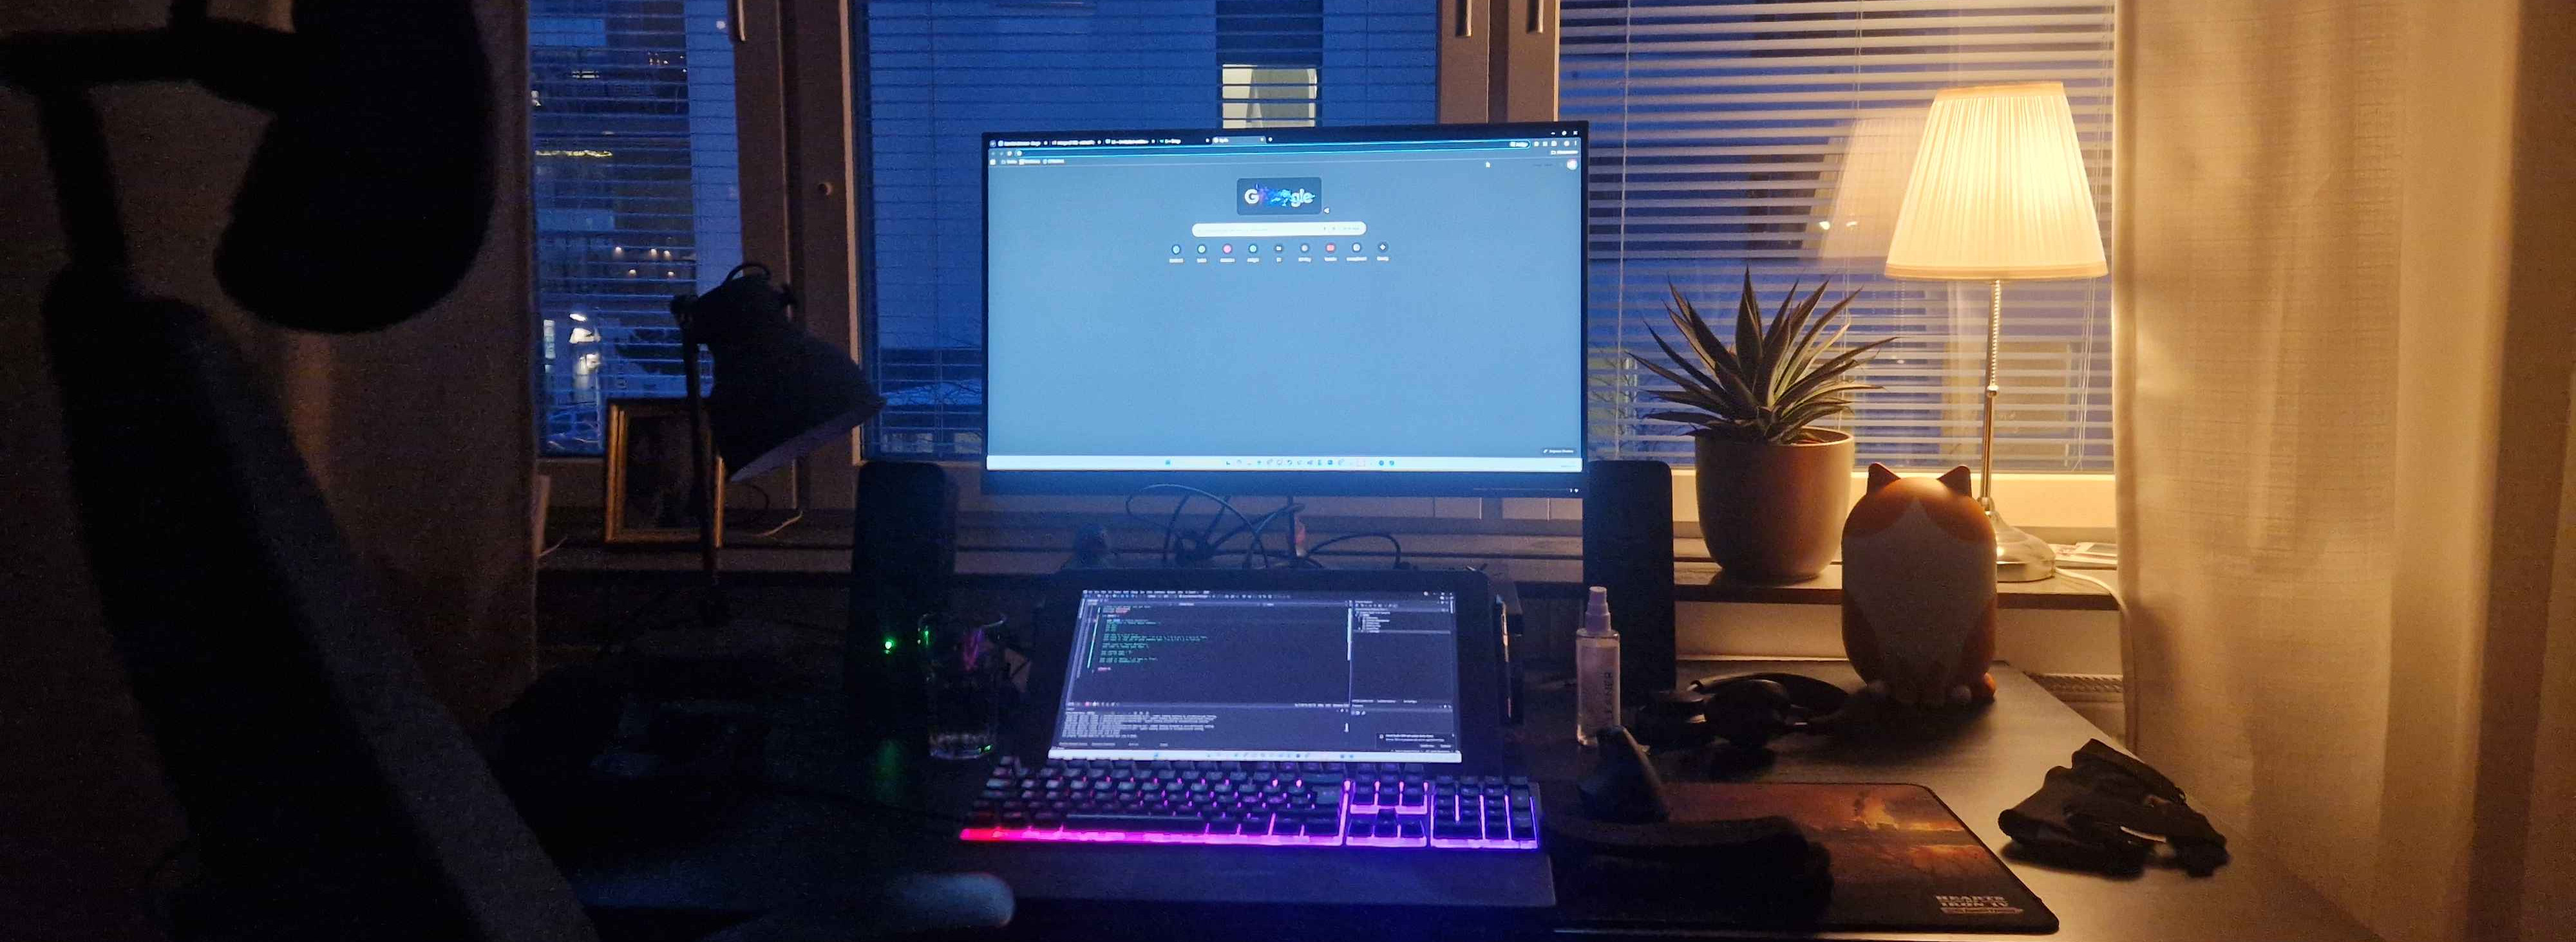
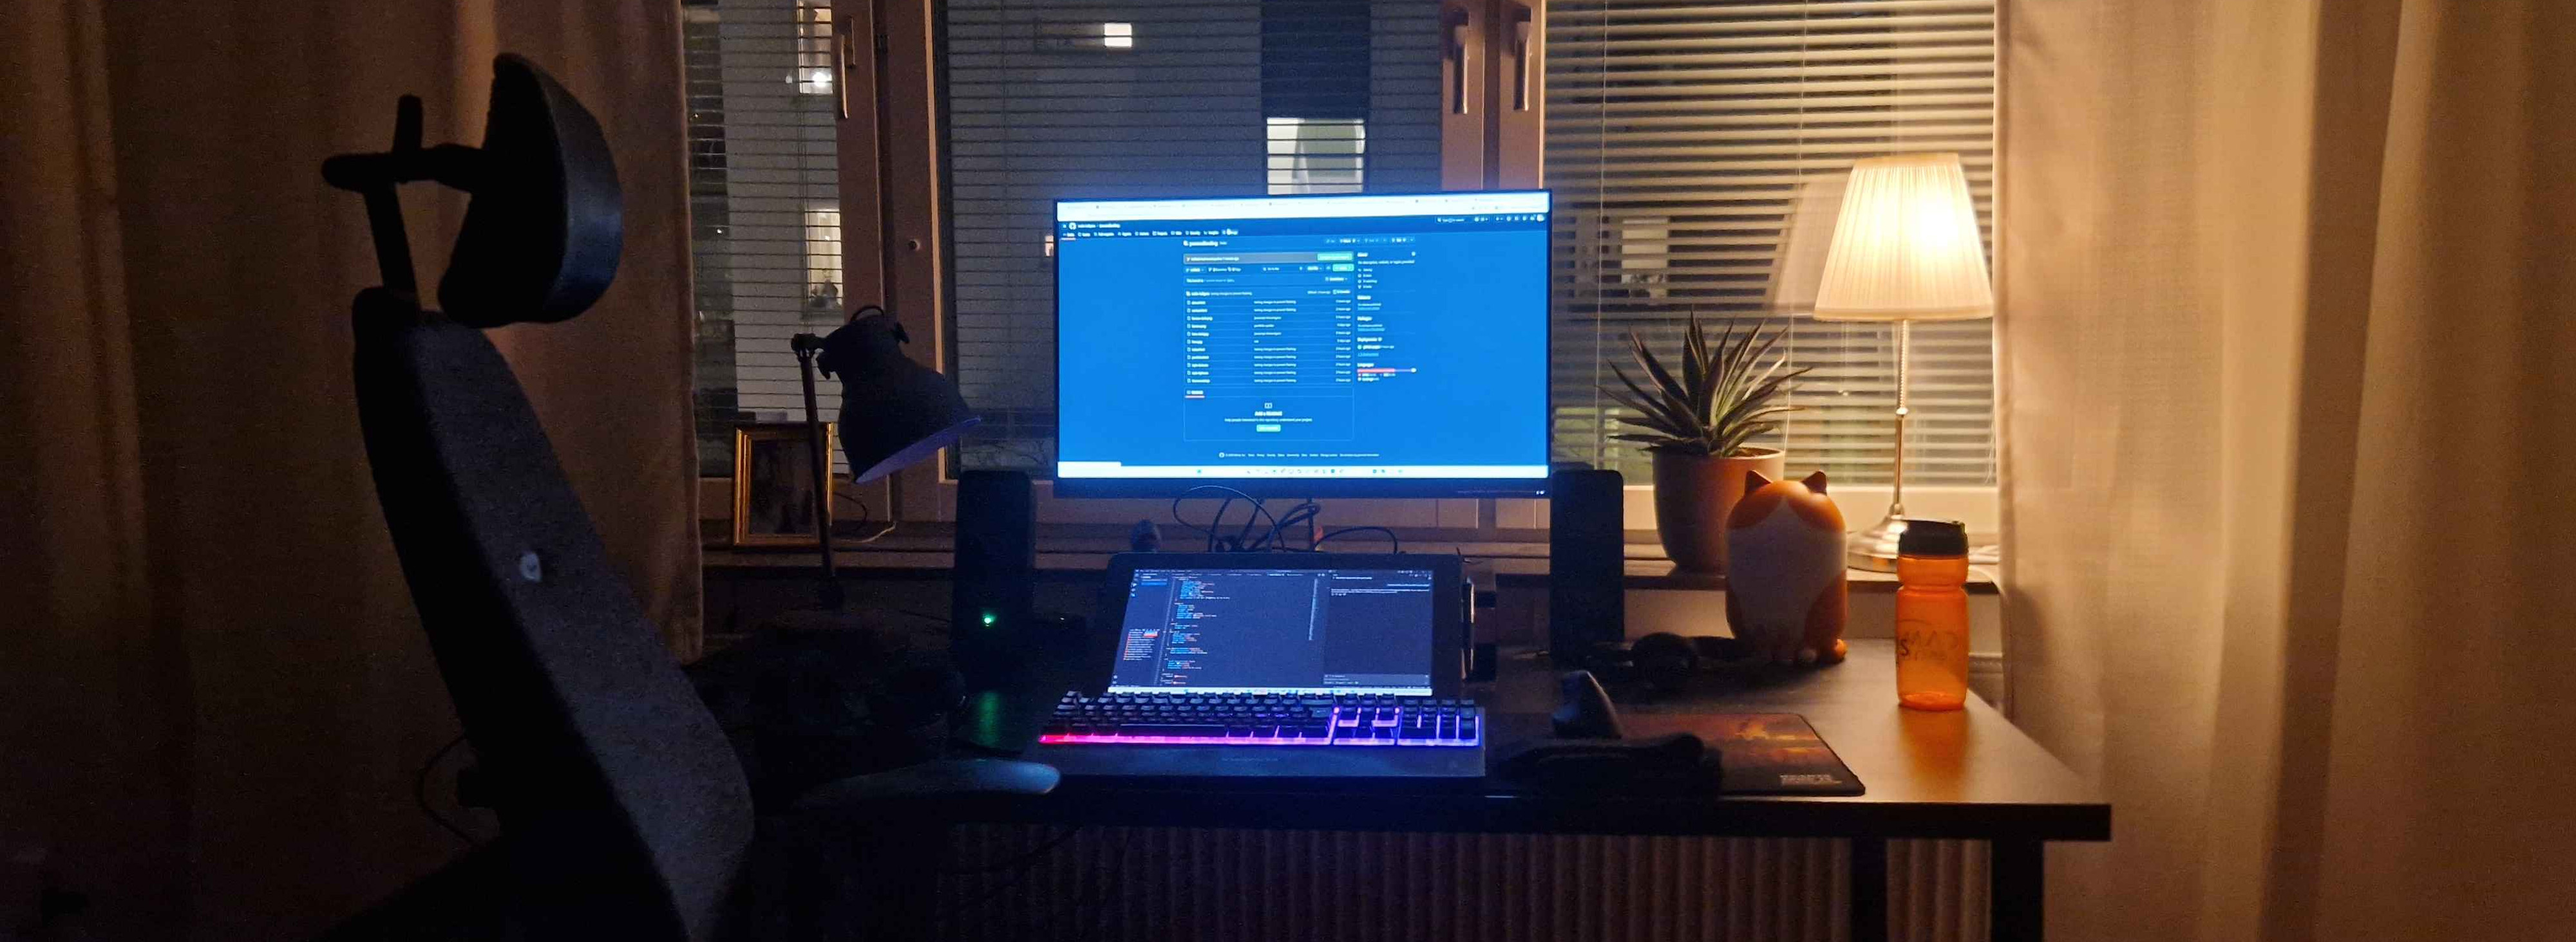
improvements to active indicator, layout changes on portfolio

diff --git a/portfolio.html b/portfolio.html
@@ -19,7 +19,7 @@
        <nav>
             <ul>
                 <li><a href="index.html">Home</a></li>
-                <li><a href="portfolio.html" aria-current="page">Portfolio</a></li>
+                <li><a href="portfolio.html" class="active">Portfolio</a></li>
                 <li><a href="about.html">About</a></li>
                 <li><a href="contact.html">Contact</a></li>
             </ul>
@@ -61,6 +61,8 @@
                             <li>Lead designer and scripter on Austria</li>
                             <li>Implementation support on Germany and Belgium</li>
                             <li>Customer facing communication/marketing for Austria</li>
+                            <li>Bug fixes and improvements across all country content</li>
+                            <li><a href = "#gtd">Click for more info</a></li>
                         </ul>
                     </div>
                     
@@ -70,6 +72,7 @@
                             <li>Published by Paradox Interactive (&copy;All rights reserved) in 2024</li>
                             <li>Implementation support on Brazil, Argentina and Chile</li>
                             <li>Bug fixes and improvements across all country content</li>
+                            <li><a href = "#toa">Click for more info</a></li>
                         </ul>
                     </div>
                     <div class = "portfolio-card">
@@ -77,9 +80,9 @@
                         <ul>
                             <li>Published by Paradox Interactive (&copy;All rights reserved) in 2025</li>
                             <li>Design of country content for China (PRC)</li>
-                            <li>Communication with Chinese playerbase to align design with expectations</li>
                             <li>Implementation support on China (PRC)</li>
                             <li>Bug fixes and improvements across all country content</li>
+                            <li><a href = "#ncns">Click for more info</a></li>
                         </ul>
                     </div>
                     <div class = "portfolio-card">
@@ -136,7 +139,7 @@
                     <figure class="trailer-video">
                         <iframe class="video" src="https://www.youtube.com/embed/ftm1FxbAZiE?si=s3TaAsAyEvYpkTYX" title="YouTube video player" frameborder="0" allow="accelerometer; autoplay; clipboard-write; encrypted-media; gyroscope; picture-in-picture; web-share" referrerpolicy="strict-origin-when-cross-origin" allowfullscreen></iframe>
                         <figcaption>Trailer for Hearts of Iron IV: No Compromise, No Surrender</figcaption>
-                    <p>No Compromise, No Surrender is the fourth expansion I was part of creating at Paradox Interactive. During this expansion my main focus was the design and implementation of the People's Republic of China. Beyond the challenges of researching such a closed off nation I also had to tread a very careful line between propaganda and player expectations. I managed the design process in its' entirety as well as kept in close touch with content creators from the Chinese, the Taiwanese and the Western sides to make sure that all content felt enjoyable to them, no matter their personal stance on the situation, both current and former, in the region.<br><br>Along with design work I helped advice what designers needed from programmers and laid the groundwork for how designers communicate needs and risks to both production and programming. This ensured that risks could be mitigated early and that everyone, early on, shared the same vision of what was actually needed for the design to work, and how we could modify it should time or cost concerns prove insurmountable.<br><br>Check out the expansion on <a href="https://store.steampowered.com/app/3796260/Expansion__Hearts_of_Iron_IV_No_Compromise_No_Surrender/">Steam</a>.</p>
+                    <p>No Compromise, No Surrender is the fourth expansion I was part of creating at Paradox Interactive. During this expansion my main focus was the design and implementation of the People's Republic of China. Beyond the challenges of researching such a closed off nation I also had to tread a very careful line between propaganda and player expectations. I managed the design process in its' entirety as well as kept in close touch with content creators from the Chinese, the Taiwanese and the Western playerbases to make sure that all content felt enjoyable to them, no matter their personal stance on the geopolitical situation, both current and former, in the region.<br><br>Along with design work I helped advice what designers needed from programmers and laid the groundwork for how designers communicate needs and risks to both production and programming. This ensured that risks could be mitigated early and that everyone, early on, shared the same vision of what was actually needed for the design to work, and how we could modify it should time or cost concerns prove insurmountable.<br><br>Check out the expansion on <a href="https://store.steampowered.com/app/3796260/Expansion__Hearts_of_Iron_IV_No_Compromise_No_Surrender/">Steam</a>.</p>
                 </div>
                 <a href="#" class="popup-close">&times;</a>
             </div>
@@ -149,7 +152,7 @@
         <nav>
             <ul>
                 <li class="footer-nav"><a href="index.html">Home</a></li>
-                <li class="footer-nav"><a href="portfolio.html" aria-current="page">Portfolio</a></li>
+                <li class="footer-nav"><a href="portfolio.html" class="active">Portfolio</a></li>
                 <li class="footer-nav"><a href="about.html">About</a></li>
                 <li class="footer-nav"><a href="contact.html">Contact</a></li>
             </ul>

diff --git a/style-light.css b/style-light.css
@@ -41,7 +41,7 @@ nav ul {
     gap: 2rem;
 }
 
-nav a[aria-current="page"] {
+a.active {
     text-decoration: underline;
     text-underline-offset: 0.25rem;
 }
@@ -113,7 +113,6 @@ figure {
 main {
     display: flex;
     flex-direction: column;
-
     gap: 2rem;
     margin-top: 2rem;
 }
@@ -132,8 +131,12 @@ main {
     font-size: 1.5rem;
     padding-left: 0.5rem;
     text-shadow: 2px 2px 4px #6a6160af;
-    /* border-bottom: #383838 solid 2px; */
 }
+
+#main-heading {
+    margin-bottom: -3rem;
+}
+
 
 .about-me-card {
     max-width: 78.5rem;
@@ -163,35 +166,25 @@ main {
     max-width: 78.5rem;
     display: grid;
     grid-template-columns: repeat(3, 1fr);
-    gap: 2rem;
+    gap: 1rem;
+    padding: 2rem;
+    background-color: #f0f0f0;
+    border-radius: 10px;
+    box-shadow: 0 2px 5px rgba(0, 0, 0, 0.3);
 }
 
 .portfolio-card {
     max-width: 100%;
-    background-color: #f0f0f0;
+    min-width: 8rem;
+    background-color: #fff;
     padding: 1rem;
     border-radius: 10px;
-    box-shadow: 0 2px 5px rgba(0, 0, 0, 0.2);
-    transition: transform 0.3s ease, background-color 0.3s ease;
+    box-shadow: 0 2px 5px rgba(0, 0, 0, 0.1);
+    transition: transform 0.3s ease;
 }
 
 .portfolio-card:hover {
     transform: scale(1.02);
-    background-color: #e0e0e0;
-}
-
-.portfolio-card:active {
-    transform: scale(1.02);
-    background-color: #d1d1d1;
-}
-
-
-.portfolio-card-big {
-    max-width: 78.5rem;
-    padding: 2rem;
-    background-color: #f0f0f0;
-    border-radius: 10px;
-    box-shadow: 0 2px 5px rgba(0, 0, 0, 0.2);
 }
 
 .elevator-pitch {
@@ -347,8 +340,8 @@ figcaption {
     position: absolute;
     height: 18%;
     width:7.5%;
-    top: 21.5%;
-    left: 62.5%;
+    top: 17%;
+    left: 70%;
     z-index: 10;
     padding: 0.5rem 1rem;
     background-color: #a01f1f;

diff --git a/style-dark.css b/style-dark.css
@@ -42,7 +42,7 @@ nav ul {
     gap: 2rem;
 }
 
-nav a[aria-current="page"] {
+a.active {
     text-decoration: underline;
     text-underline-offset: 0.25rem;
 }
@@ -134,7 +134,10 @@ main {
     font-size: 1.5rem;
     padding-left: 0.5rem;
     text-shadow: 0 2px 5px rgba(0, 0, 0, 0.2);
-    /* border-bottom: #383838 solid 2px; */
+}
+
+#main-heading {
+    margin-bottom: -3rem;
 }
 
 .about-me-card {
@@ -165,35 +168,25 @@ main {
     max-width: 78.5rem;
     display: grid;
     grid-template-columns: repeat(3, 1fr);
-    gap: 2rem;
+    gap: 1rem;
+    padding: 2rem;
+    background-color: #595959;
+    border-radius: 10px;
+    box-shadow: 0 2px 5px rgba(0, 0, 0, 0.3);
 }
 
 .portfolio-card {
     max-width: 100%;
-    background-color: #595959;
+    min-width: 8rem;
+    background-color: #6c6c6c;
     padding: 1rem;
     border-radius: 10px;
-    box-shadow: 0 2px 5px rgba(0, 0, 0, 0.2);
-    transition: transform 0.3s ease, background-color 0.3s ease;
+    box-shadow: 0 2px 5px rgba(0, 0, 0, 0.1);
+    transition: transform 0.3s ease;
 }
 
 .portfolio-card:hover {
     transform: scale(1.02);
-    background-color: #6e6e6e;
-}
-
-.portfolio-card:active {
-    transform: scale(1.02);
-    background-color: #818181;
-}
-
-
-.portfolio-card-big {
-    max-width: 78.5rem;
-    padding: 2rem;
-    background-color: #595959;
-    border-radius: 10px;
-    box-shadow: 0 2px 5px rgba(0, 0, 0, 0.2);
 }
 
 .elevator-pitch {
@@ -348,10 +341,10 @@ figcaption {
 
 .theme-button {
     position: absolute;
-    height: 21%;
-    width:9%;
-    top: 8.5%;
-    left: 73%;
+    height: 18%;
+    width:7.5%;
+    top: 17%;
+    left: 70%;
     z-index: 10;
     padding: 0.5rem 1rem;
     background-color: #a01f1f;

diff --git a/index.html b/index.html
@@ -18,7 +18,7 @@
    <header>
         <nav>
             <ul>
-                <li><a href="index.html" aria-current="page">Home</a></li>
+                <li><a href="index.html" class="active">Home</a></li>
                 <li><a href="portfolio.html">Portfolio</a></li>
                 <li><a href="about.html">About</a></li>
                 <li><a href="contact.html">Contact</a></li>
@@ -51,9 +51,9 @@
         }
     </script>
     
-    <h1 class = "page-heading">Malin Hallgren</h1>
-    <h2 class="section-heading">- Fullstack Developer</h2>
     <main><!-- main content goes here -->
+        <h1 id="main-heading" class="page-heading">Malin Hallgren</h1>
+        <h2 class="section-heading">- Fullstack Developer</h2>
         <section>
             <article >
                 <section class = "about-me-card">
@@ -144,7 +144,7 @@
         <p>&copy; 2026 Malin Hallgren</p>
         <nav>
             <ul>
-                <li class="footer-nav"><a href="index.html" aria-current="page">Home</a></li>
+                <li class="footer-nav"><a href="index.html" class="active">Home</a></li>
                 <li class="footer-nav"><a href="portfolio.html">Portfolio</a></li>
                 <li class="footer-nav"><a href="about.html">About</a></li>
                 <li class="footer-nav"><a href="contact.html">Contact</a></li>

diff --git a/contact.html b/contact.html
@@ -21,7 +21,7 @@
                 <li><a href="index.html">Home</a></li>
                 <li><a href="portfolio.html">Portfolio</a></li>
                 <li><a href="about.html">About</a></li>
-                <li><a href="contact.html" aria-current="page">Contact</a></li>
+                <li><a href="contact.html" class="active">Contact</a></li>
             </ul>
        </nav>
        <figure>
@@ -66,7 +66,7 @@
                 <li class="footer-nav"><a href="index.html">Home</a></li>
                 <li class="footer-nav"><a href="portfolio.html">Portfolio</a></li>
                 <li class="footer-nav"><a href="about.html">About</a></li>
-                <li class="footer-nav"><a href="contact.html" aria-current="page">Contact</a></li>
+                <li class="footer-nav"><a href="contact.html" class="active">Contact</a></li>
             </ul>
        </nav>
     </footer>

diff --git a/about.html b/about.html
@@ -20,7 +20,7 @@
             <ul>
                 <li><a href="index.html">Home</a></li>
                 <li><a href="portfolio.html">Portfolio</a></li>
-                <li><a href="about.html" aria-current="page">About</a></li>
+                <li><a href="about.html" class="active">About</a></li>
                 <li><a href="contact.html">Contact</a></li>
             </ul>
        </nav>
@@ -68,7 +68,7 @@
             <ul>
                 <li class="footer-nav"><a href="index.html">Home</a></li>
                 <li class="footer-nav"><a href="portfolio.html">Portfolio</a></li>
-                <li class="footer-nav"><a href="about.html" aria-current="page">About</a></li>
+                <li class="footer-nav"><a href="about.html" class="active">About</a></li>
                 <li class="footer-nav"><a href="contact.html">Contact</a></li>
             </ul>
        </nav>
